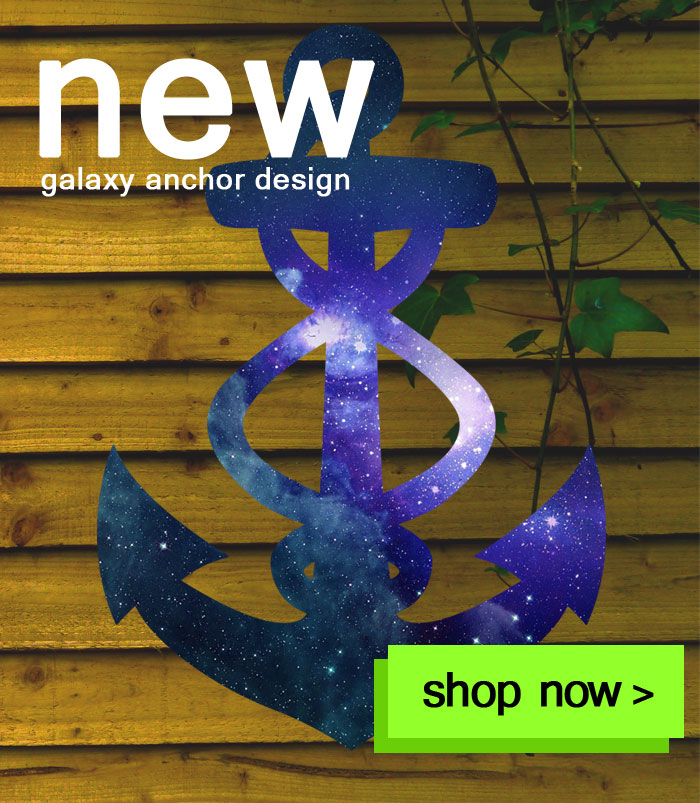
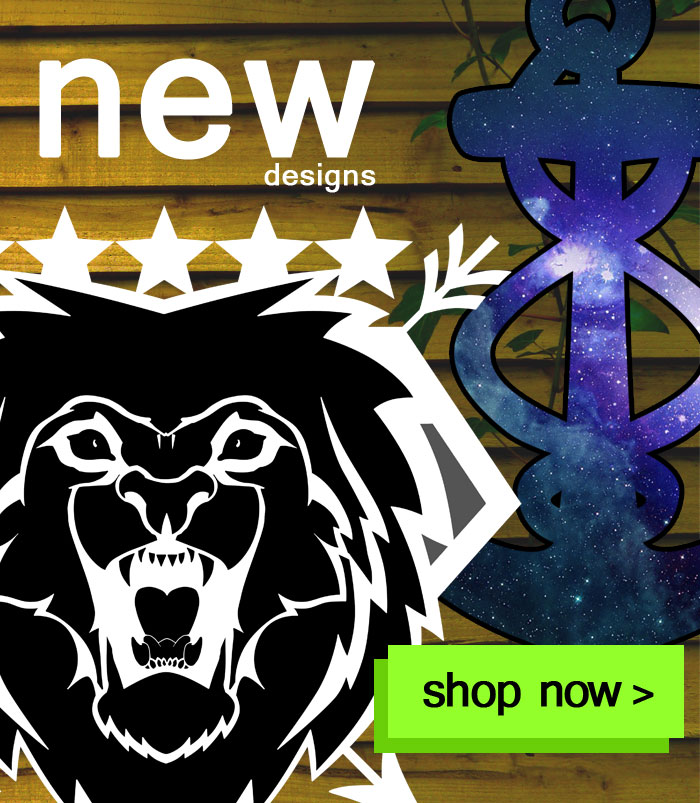
Update box2.jpg and changed link

diff --git a/index.html b/index.html
@@ -178,7 +178,7 @@
               </a>
             </div>
             <div class="span4">
-              <a href="http://inktees.spreadshirt.co.uk/anchortestblue-png-I113659520" class="promobox">
+              <a href="http://inktees.spreadshirt.co.uk/new-C329165" class="promobox">
                 <img class="img responsive" src="img/box2.jpg" alt="img/box2" width="310" height="1000">
             </a>
             </div>
